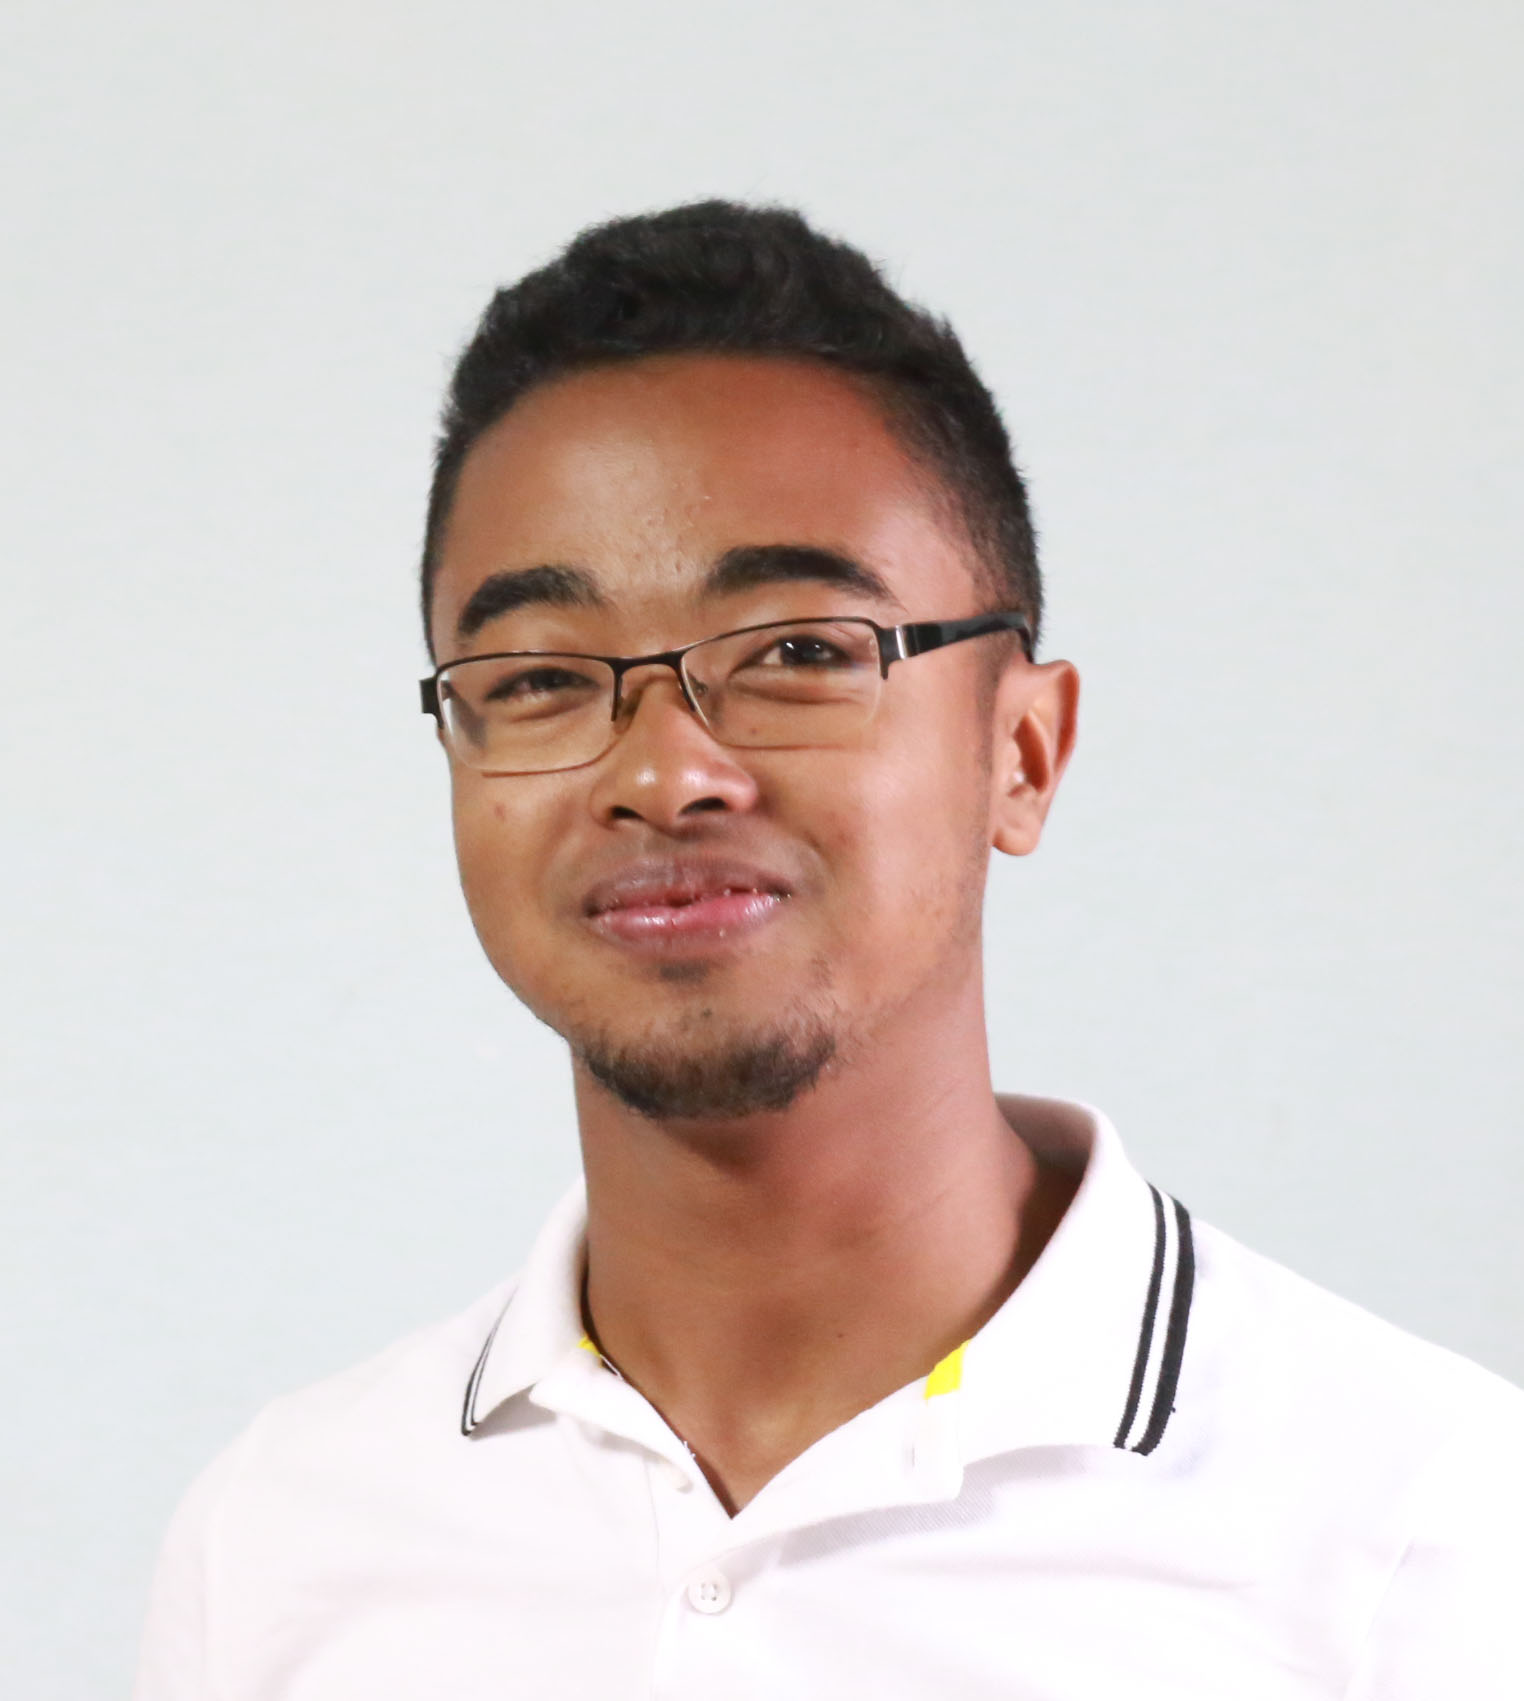
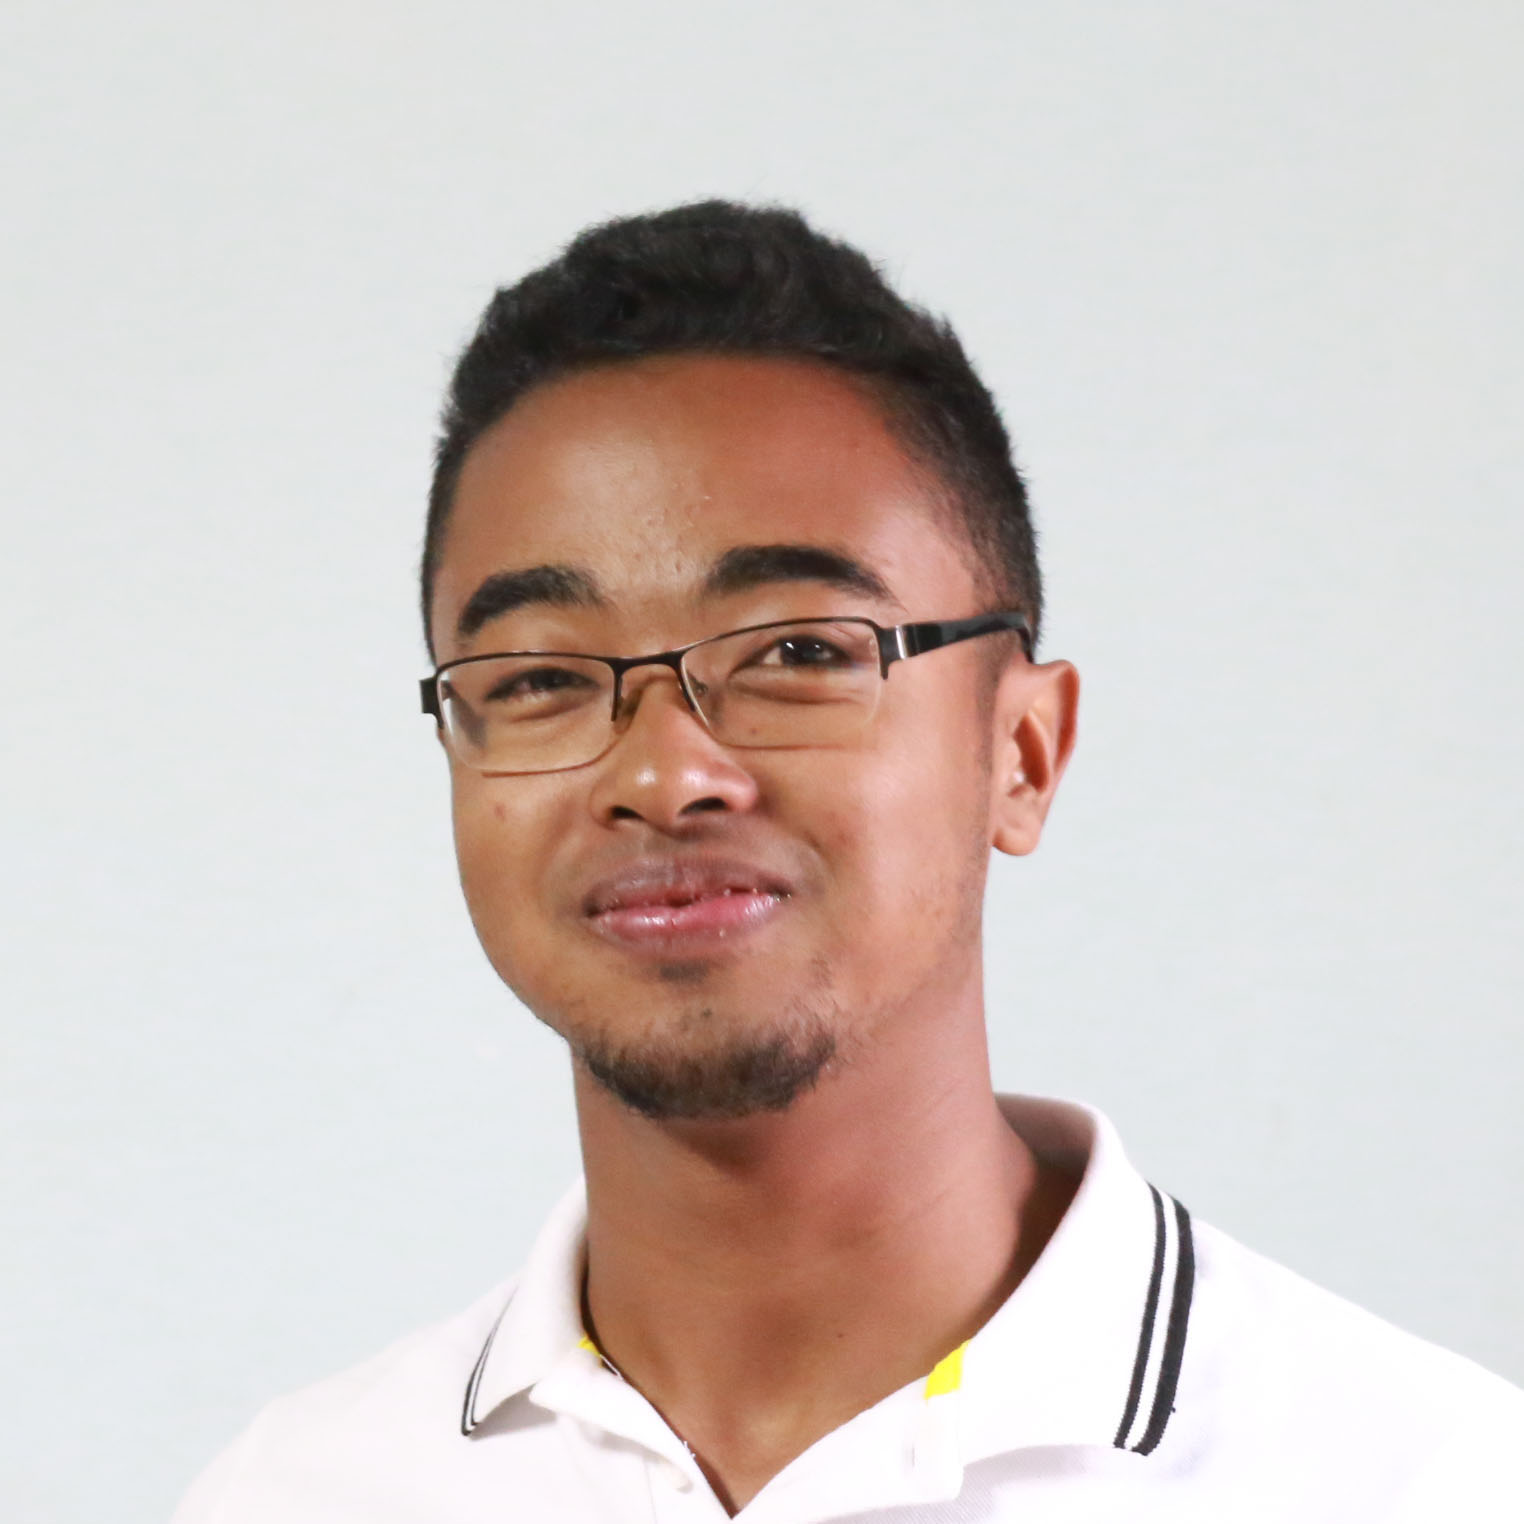
centered the pdp with flex

Changed region(s): [[0.2467, 0.0925, 1.0, 1.0], [0.5243, 0.9869, 0.6168, 1.0]]

diff --git a/index.html b/index.html
@@ -39,7 +39,7 @@
                     <!--<li>Job : Developpeur JavaEE-Spring</li>-->
                 </ul>
                 <p class="self-introduction">
-    Bienvenue dans ce site site qui à la fois affiche un bref avant goût de mes capacités mais reflète aussi un peu ma personalité en rapport avec le design.
+    Bienvenue dans ce site qui à la fois affiche un bref avant goût de mes capacités mais reflète aussi un peu ma personalité en rapport avec le design.
                 </p>
 
                 <p class="self-introduction">

diff --git a/css/style.css b/css/style.css
@@ -61,7 +61,10 @@ main {
 }
 
 #pdp {
-    max-width: 200px;
+    display: flex;
+    justify-content: center;
+    border-radius:100px;
+    background: darkblue;
 }
 
 #pdp img{
